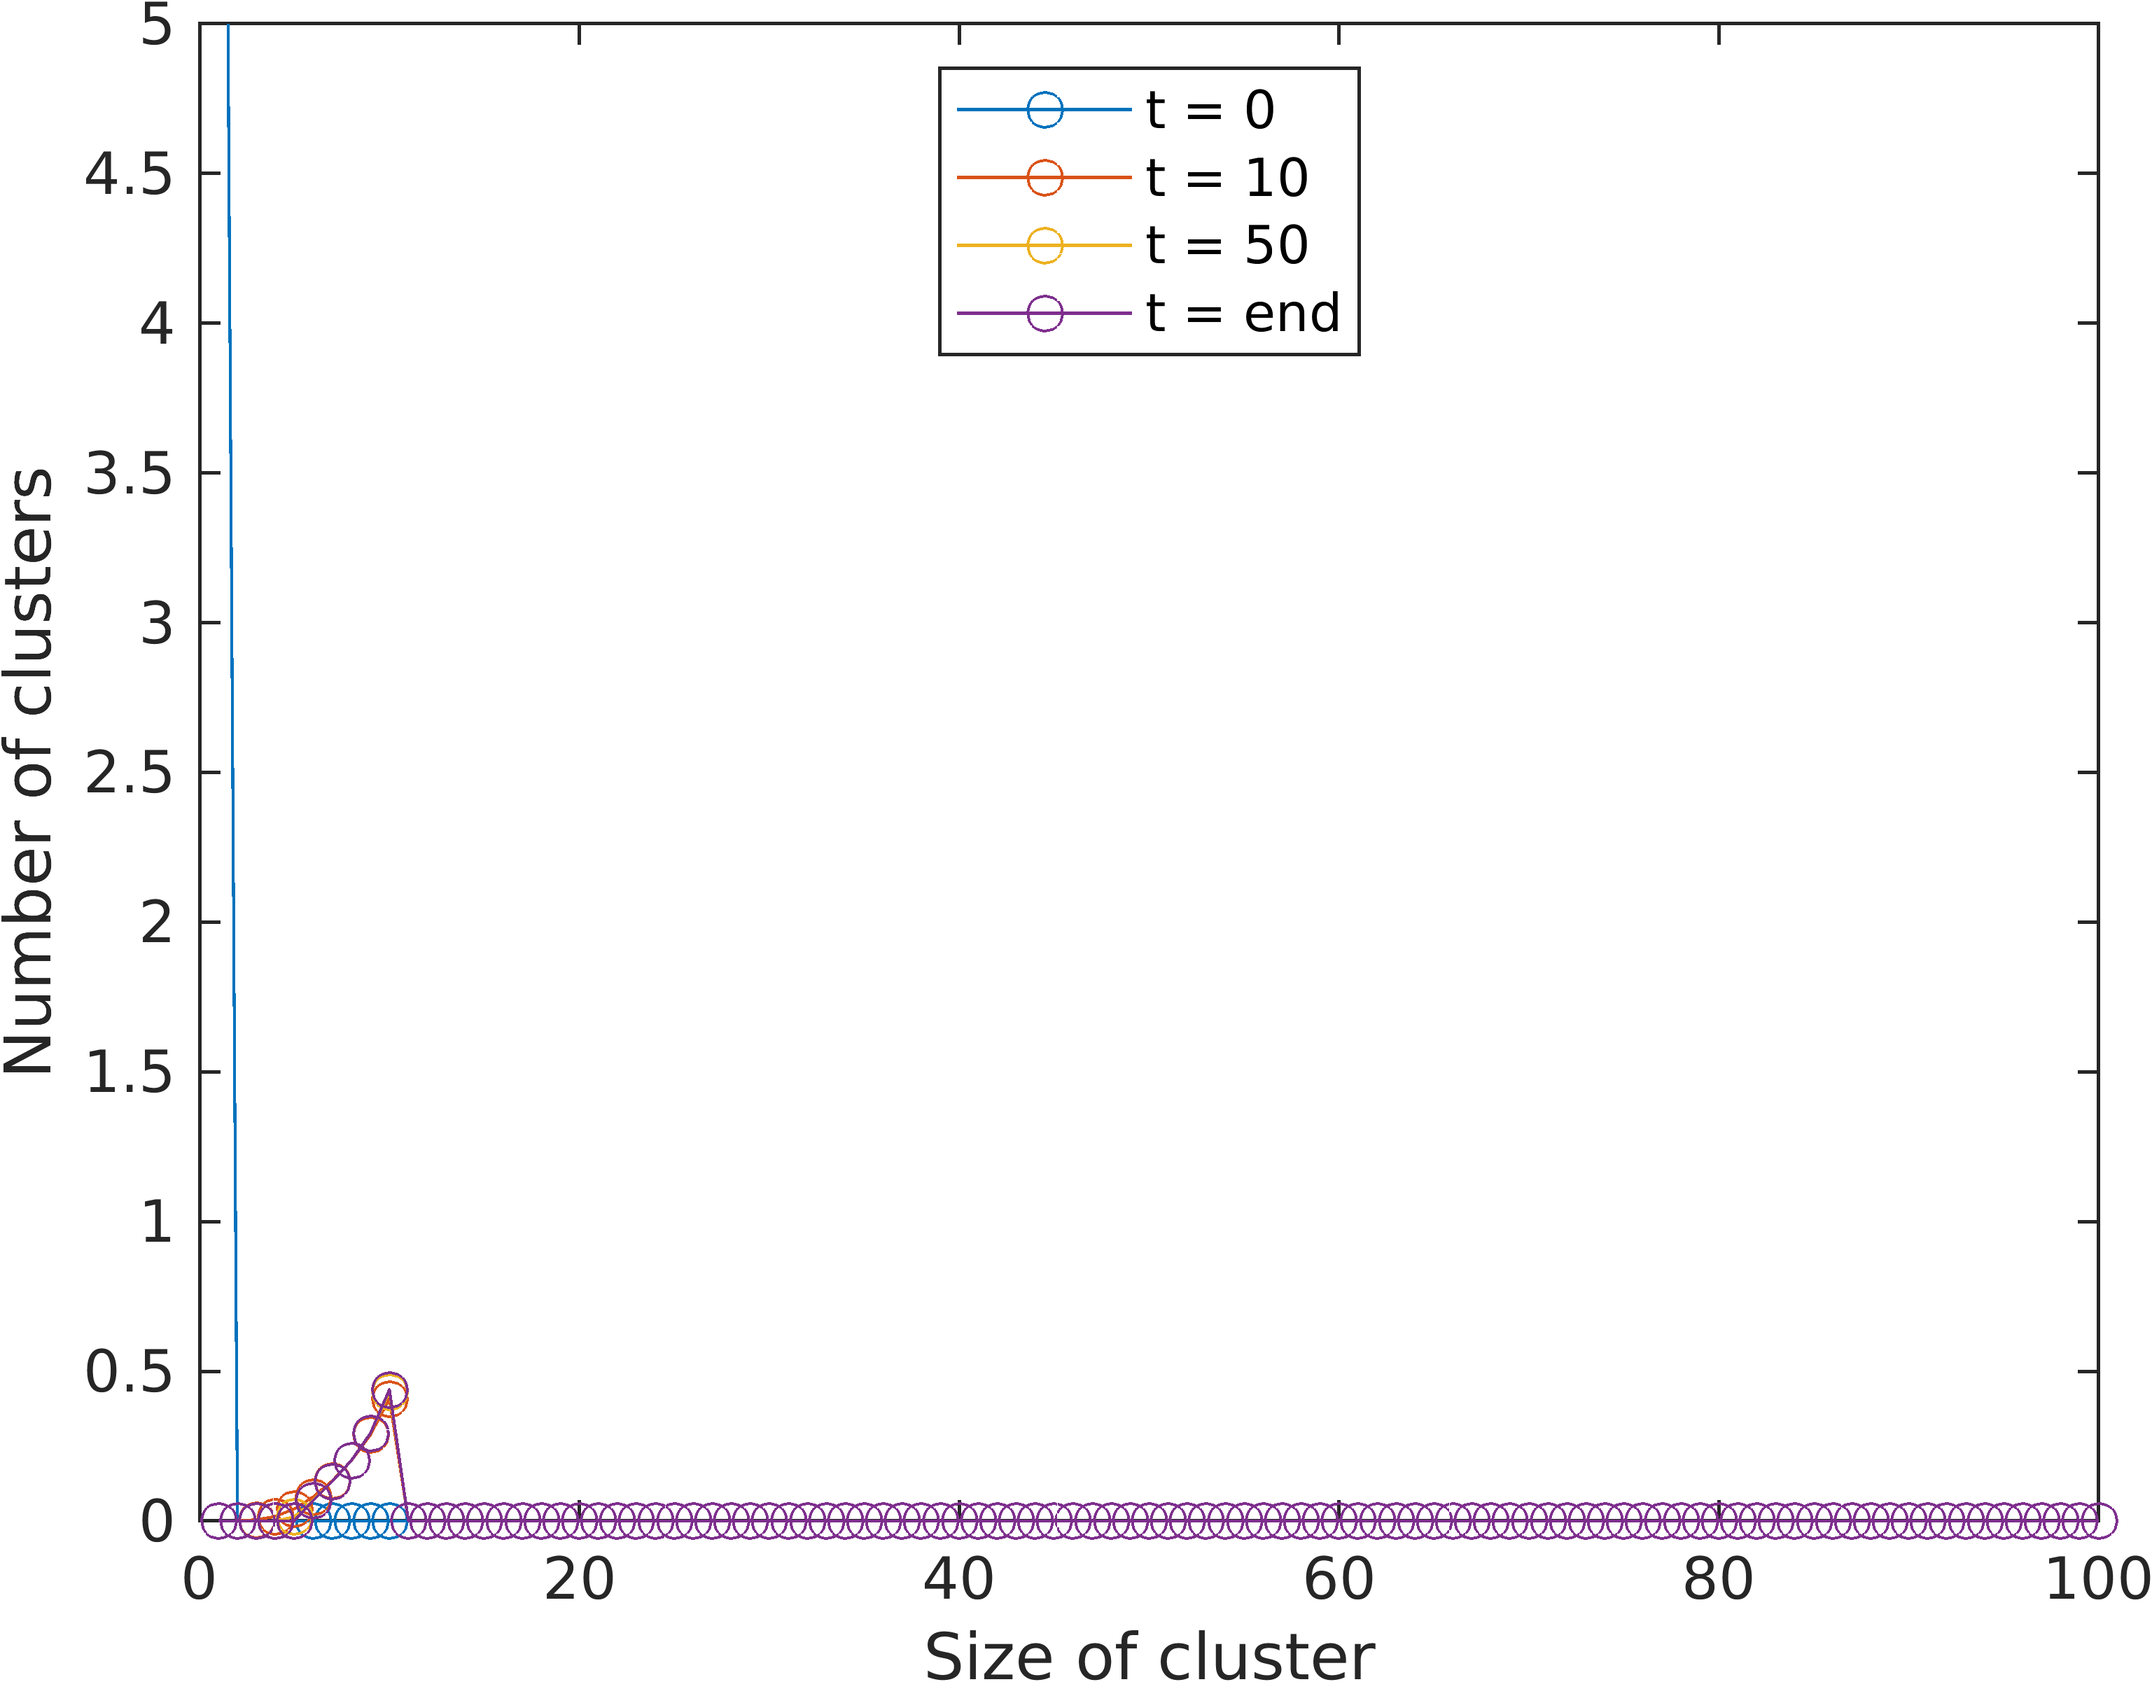
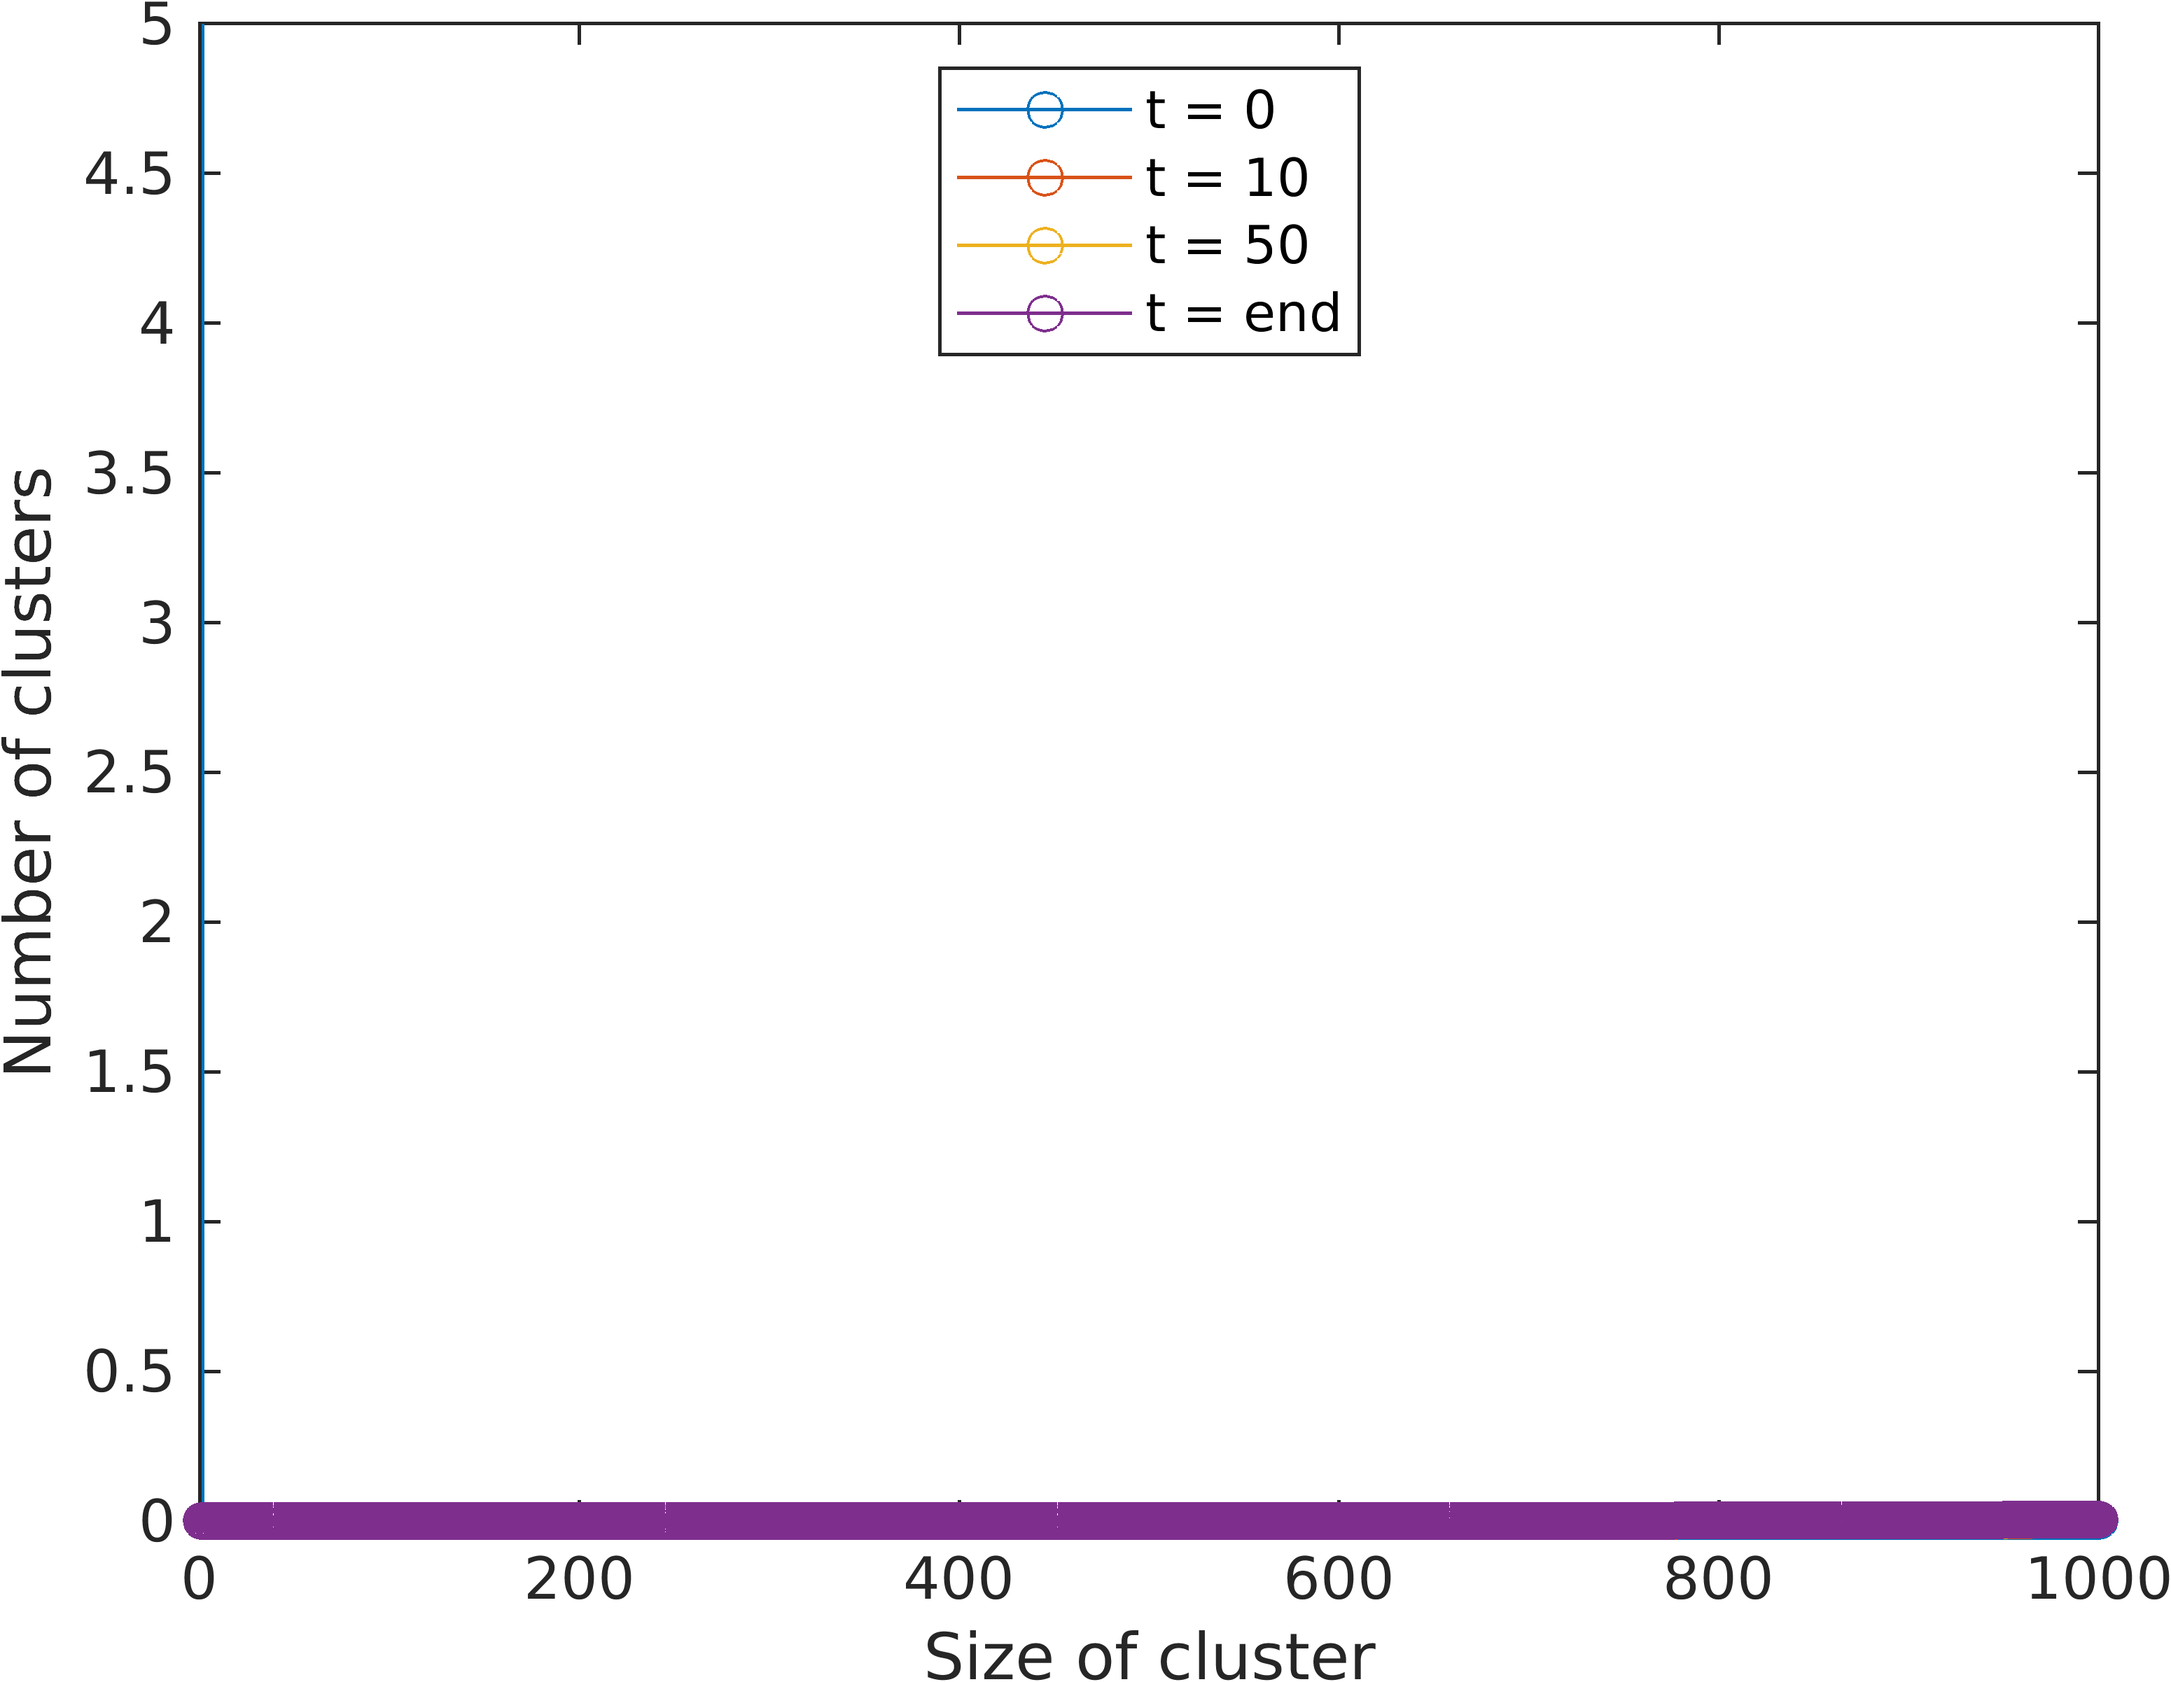
Simulations run for coagulation only varying IC and max cluster size

diff --git a/homogeneous/extended_smol.m b/homogeneous/extended_smol.m
@@ -45,7 +45,7 @@ shed_or_split = 1;
 % (set to allow for metastatic invasion)
 n0 = zeros(1,2*N);
 %n0(1:N) = 1;
-n0(1) = 10;
+n0(1) = 100;
 
 %% Running of solver
 tmin = 0;
@@ -93,9 +93,9 @@ for l = 1:N
     N_t_before = l*n(l)+ N_t_before;
 end
 N_t = round(N_t_before);
-if N_t > 10.1
-    disp('problem!');
-end
+%if N_t > 10.1
+%    disp('problem!');
+%end
 
 
 global include_flux
